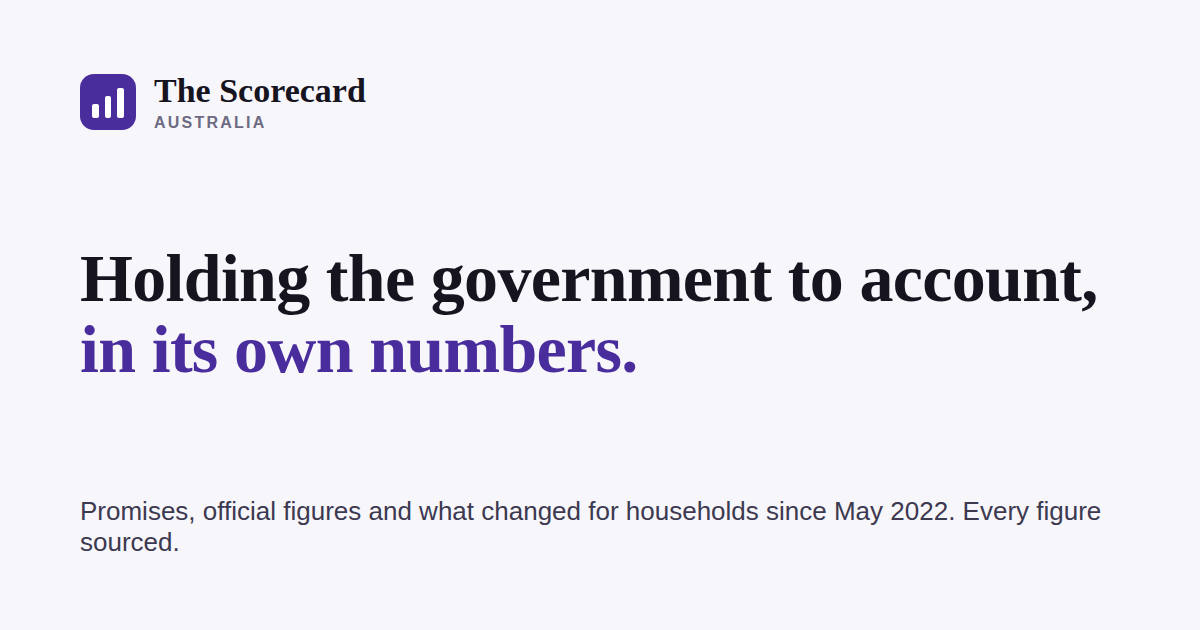
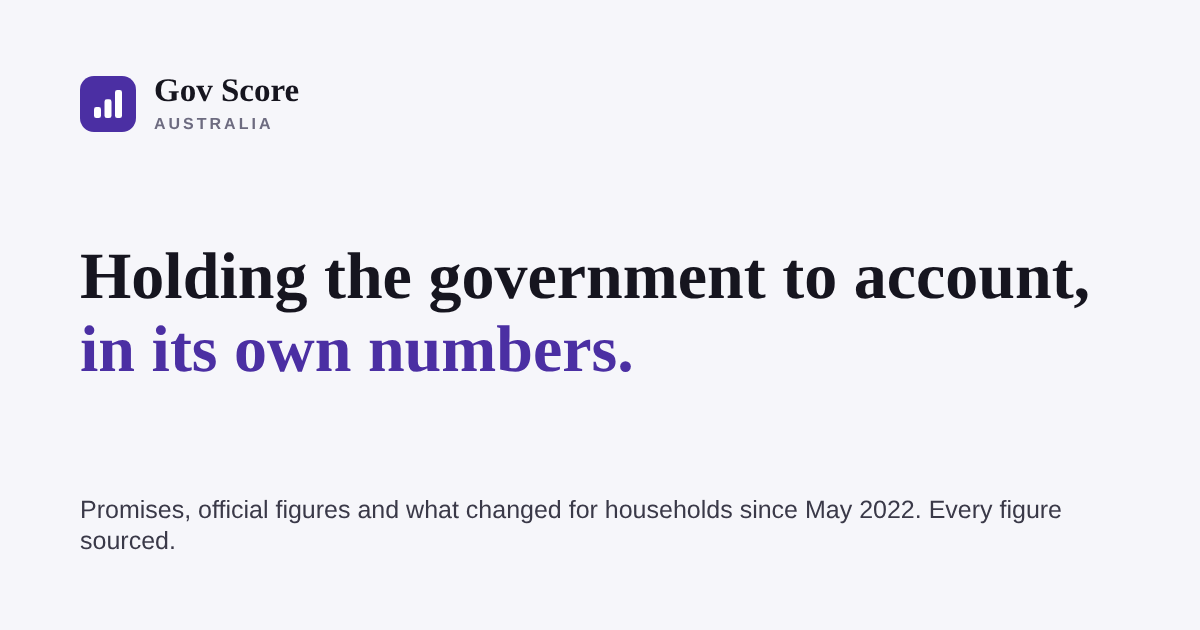
Rename site to Gov Score
Claude-Session: https://claude.ai/code/session_011PfCVNbpNUZJ4sv4TK4zeN

diff --git a/public/briefing3d/categories.js b/public/briefing3d/categories.js
@@ -37,7 +37,7 @@
     return { ...sec, type: "category", metrics, rated: rated.length, off, watch, on, color: rampColor(off, watch, rated.length) };
   }).filter((s) => s.metrics.length);
   const S = D.summary;
-  const overall = { id: "overall", type: "overall", name: "The whole Scorecard", metrics: D.metrics,
+  const overall = { id: "overall", type: "overall", name: "The whole of Gov Score", metrics: D.metrics,
     rated: S.metrics_rated, off: S.metrics_off_track, watch: S.metrics_watch, on: S.metrics_on_track,
     color: rampColor(S.metrics_off_track, S.metrics_watch, S.metrics_rated) };
   overall.pos = { x: 0, y: 0, z: 0 };
@@ -525,11 +525,11 @@
     panel.hidden = false;
     const close = h("button", "panel-close", "✕"); close.type = "button"; close.setAttribute("aria-label", "Close"); close.addEventListener("click", () => select(null, true));
     panel.appendChild(close);
-    panel.appendChild(h("div", "p-kicker", n.type === "overall" ? "Every measure on the Scorecard" : `Category · ${n.metrics.length} measure${n.metrics.length === 1 ? "" : "s"}`));
+    panel.appendChild(h("div", "p-kicker", n.type === "overall" ? "Every measure on Gov Score" : `Category · ${n.metrics.length} measure${n.metrics.length === 1 ? "" : "s"}`));
     panel.appendChild(h("h2", "p-title", n.type === "overall" ? "Overall" : n.title));
     const plain = h("p", "p-plain"); panel.appendChild(plain);
     typewrite(plain, n.type === "overall"
-      ? "Every measure the Scorecard tracks, rolled into one figure. Click a sphere on the ring to open a category."
+      ? "Every measure Gov Score tracks, rolled into one figure. Click a sphere on the ring to open a category."
       : n.blurb);
     const row = h("div", "p-stat-row");
     row.append(statChip(n.off, "Worse", "fail"), statChip(n.watch, "Mixed", "warn"), statChip(n.on, "Better", "pass"));
@@ -551,7 +551,7 @@
       panel.appendChild(box);
     }
     const cta = h("div", "p-cta");
-    const a1 = h("a", "btn-hud", "Open on the Scorecard ↗");
+    const a1 = h("a", "btn-hud", "Open on Gov Score ↗");
     a1.href = n.type === "overall" ? BASE + "#record" : BASE + "measures/";
     cta.appendChild(a1);
     if (n.type !== "overall") { const back = h("button", "btn-hud", "◂ Overall"); back.type = "button"; back.addEventListener("click", () => select("overall", true)); cta.appendChild(back); }
@@ -560,7 +560,7 @@
   }
 
   /* ---------------------------------------------------------------- guided tour */
-  const tourSteps = [{ id: "overall", say: `The Scorecard tracks ${S.metrics_total} measures of government performance. Since the government took office in May 2022, ${S.metrics_off_track} of ${S.metrics_rated} rated measures are worse or off track, and ${S.metrics_on_track} are better or on track.` }]
+  const tourSteps = [{ id: "overall", say: `Gov Score tracks ${S.metrics_total} measures of government performance. Since the government took office in May 2022, ${S.metrics_off_track} of ${S.metrics_rated} rated measures are worse or off track, and ${S.metrics_on_track} are better or on track.` }]
     .concat(sections.map((s) => ({ id: s.id, say: `${s.title}: ${s.off} of ${s.rated} rated measures are worse or off track since May 2022. ${s.blurb}` })))
     .concat([{ id: "overall", say: "That's every category. Click any sphere to explore it, or open a measure to see its source." }]);
   const tour = { active: false, i: 0, timer: null, stepping: false,

diff --git a/src/config/site.ts b/src/config/site.ts
@@ -1,6 +1,6 @@
 /* One place for everything that changes between editions (Australia now; NZ, UK, Canada, US later). */
 export const SITE = {
-  name: 'The Scorecard',
+  name: 'Gov Score',
   edition: 'Australia',
   tagline: 'Holding the federal government to account, in its own numbers.',
   description:

diff --git a/README.md b/README.md
@@ -1,6 +1,6 @@
-# The Scorecard (next)
+# Gov Score (next)
 
-A rebuilt, separate version of The Scorecard: official Australian figures, sourced line by line, with verdicts only on
+A rebuilt, separate version of Gov Score: official Australian figures, sourced line by line, with verdicts only on
 commitments the government itself made. Astro + React islands + Tailwind, static output.
 
 ## Commands
